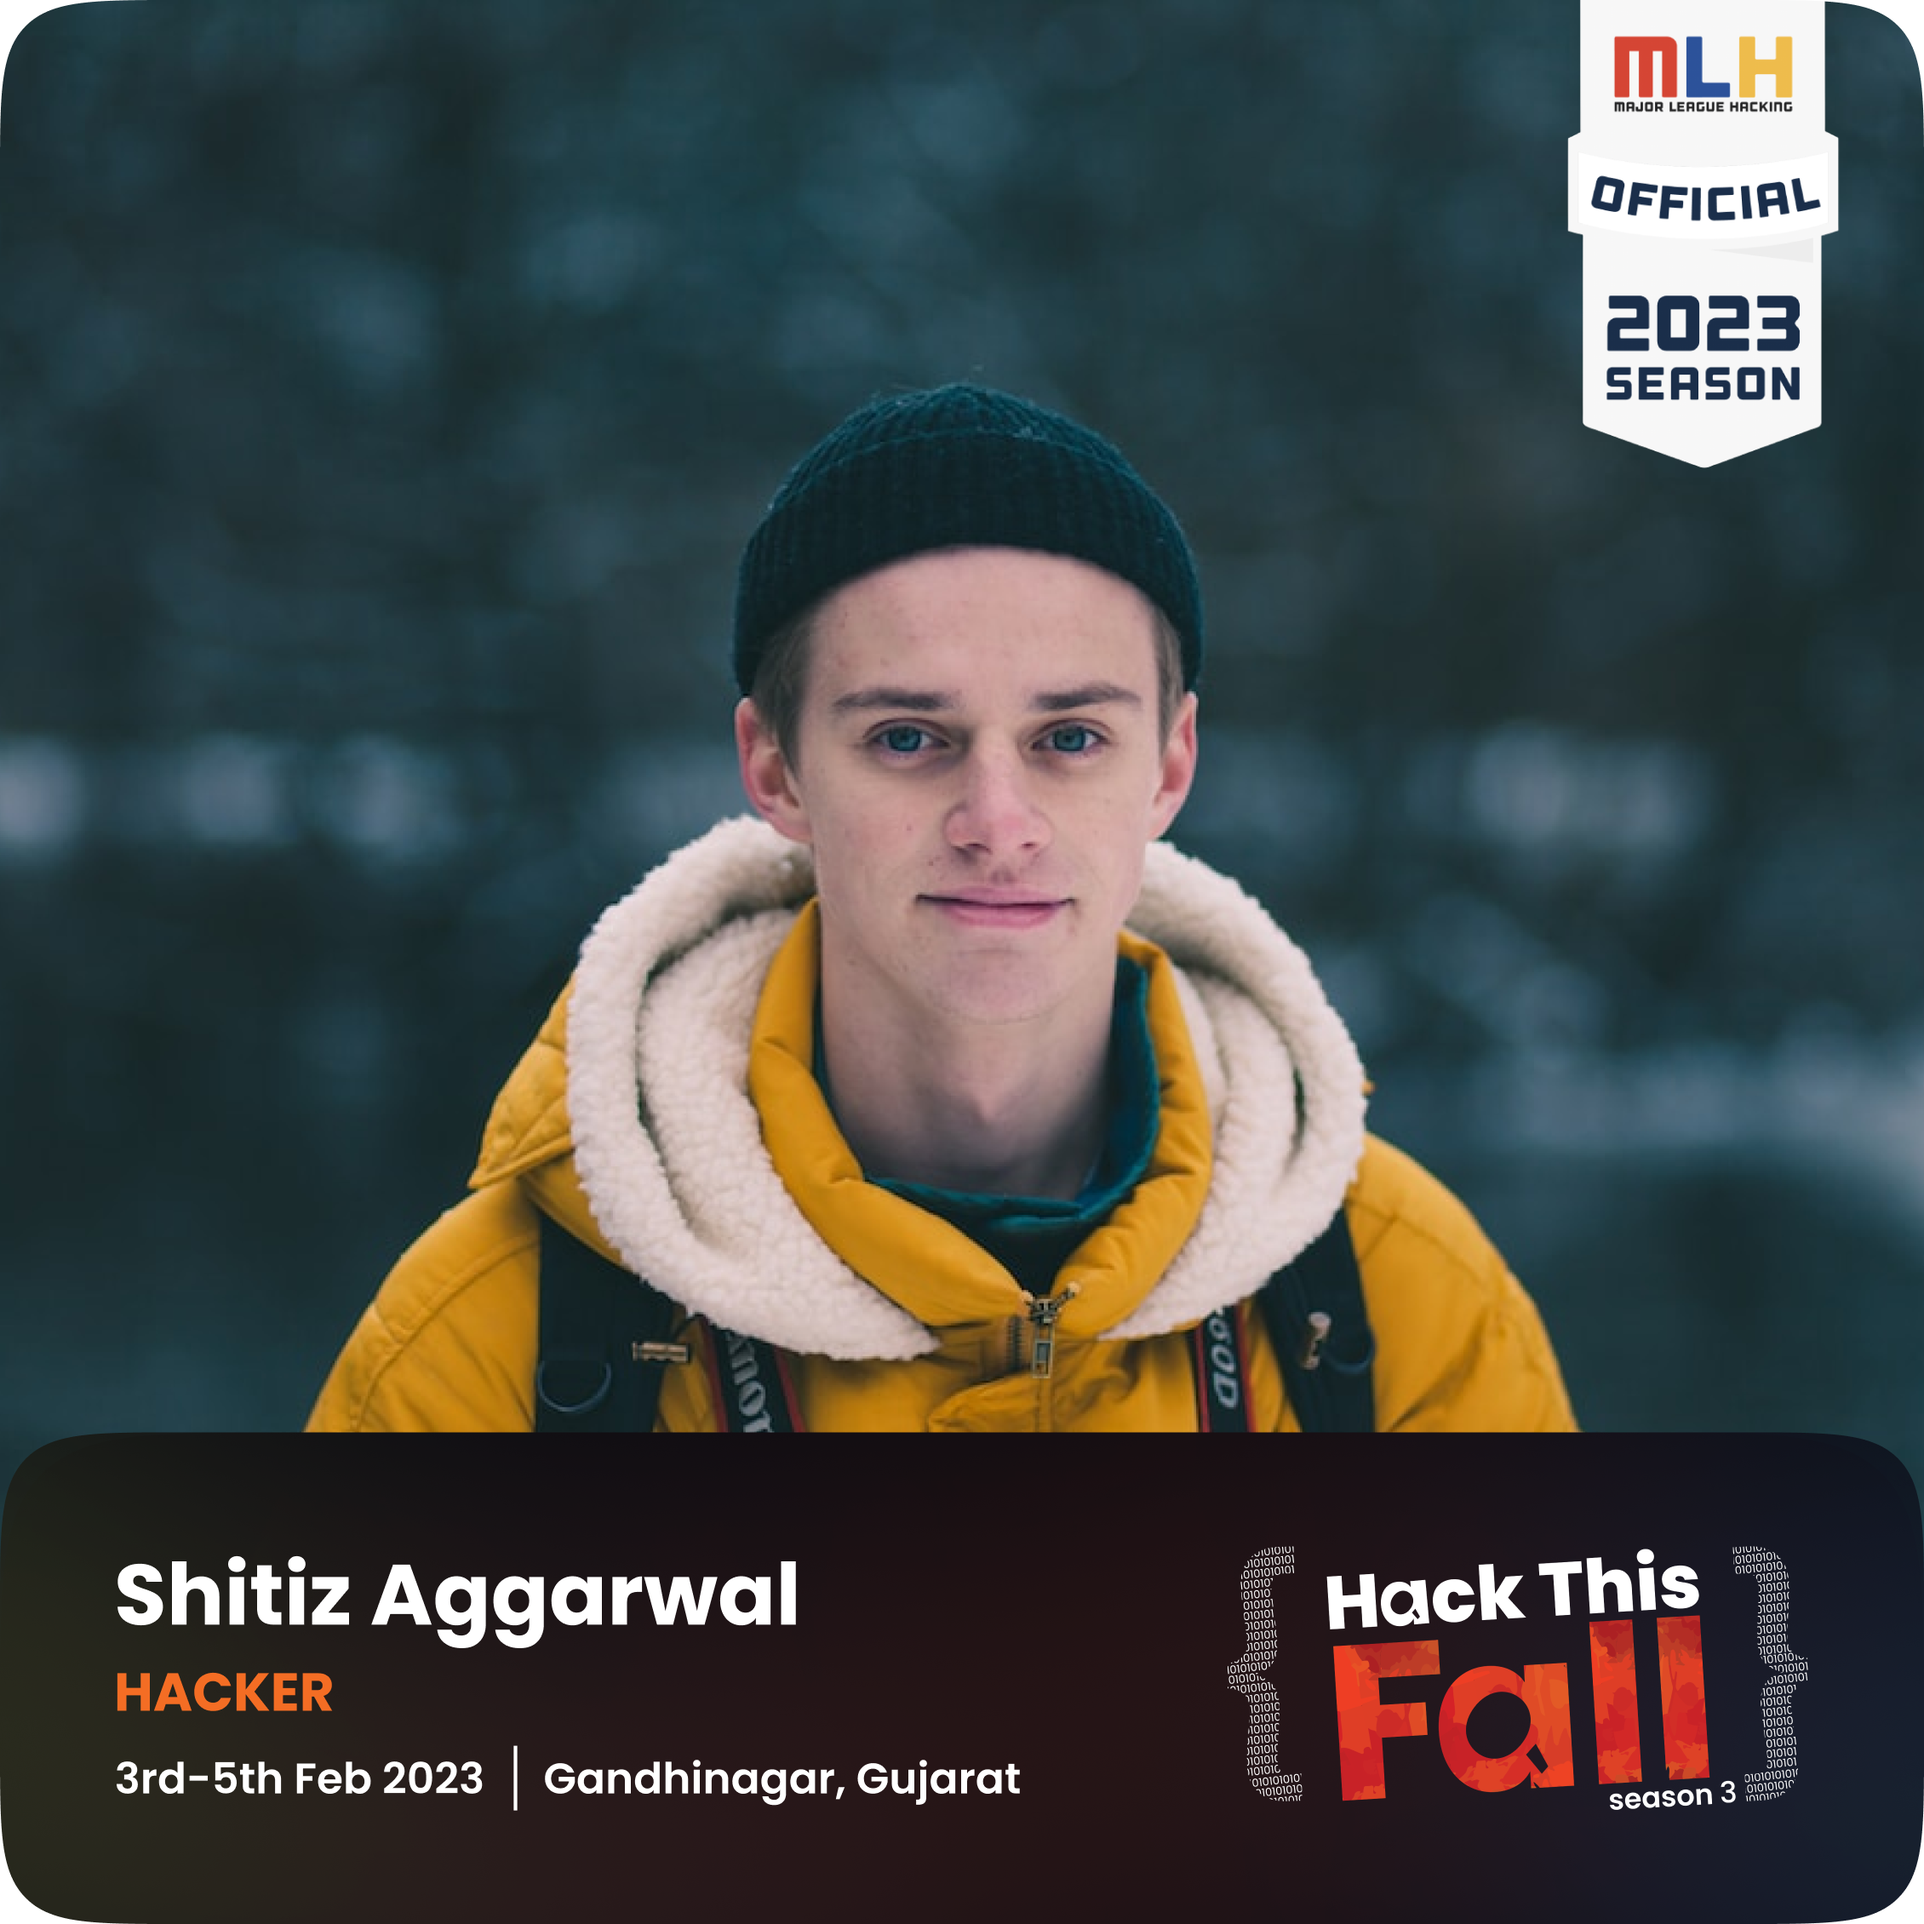
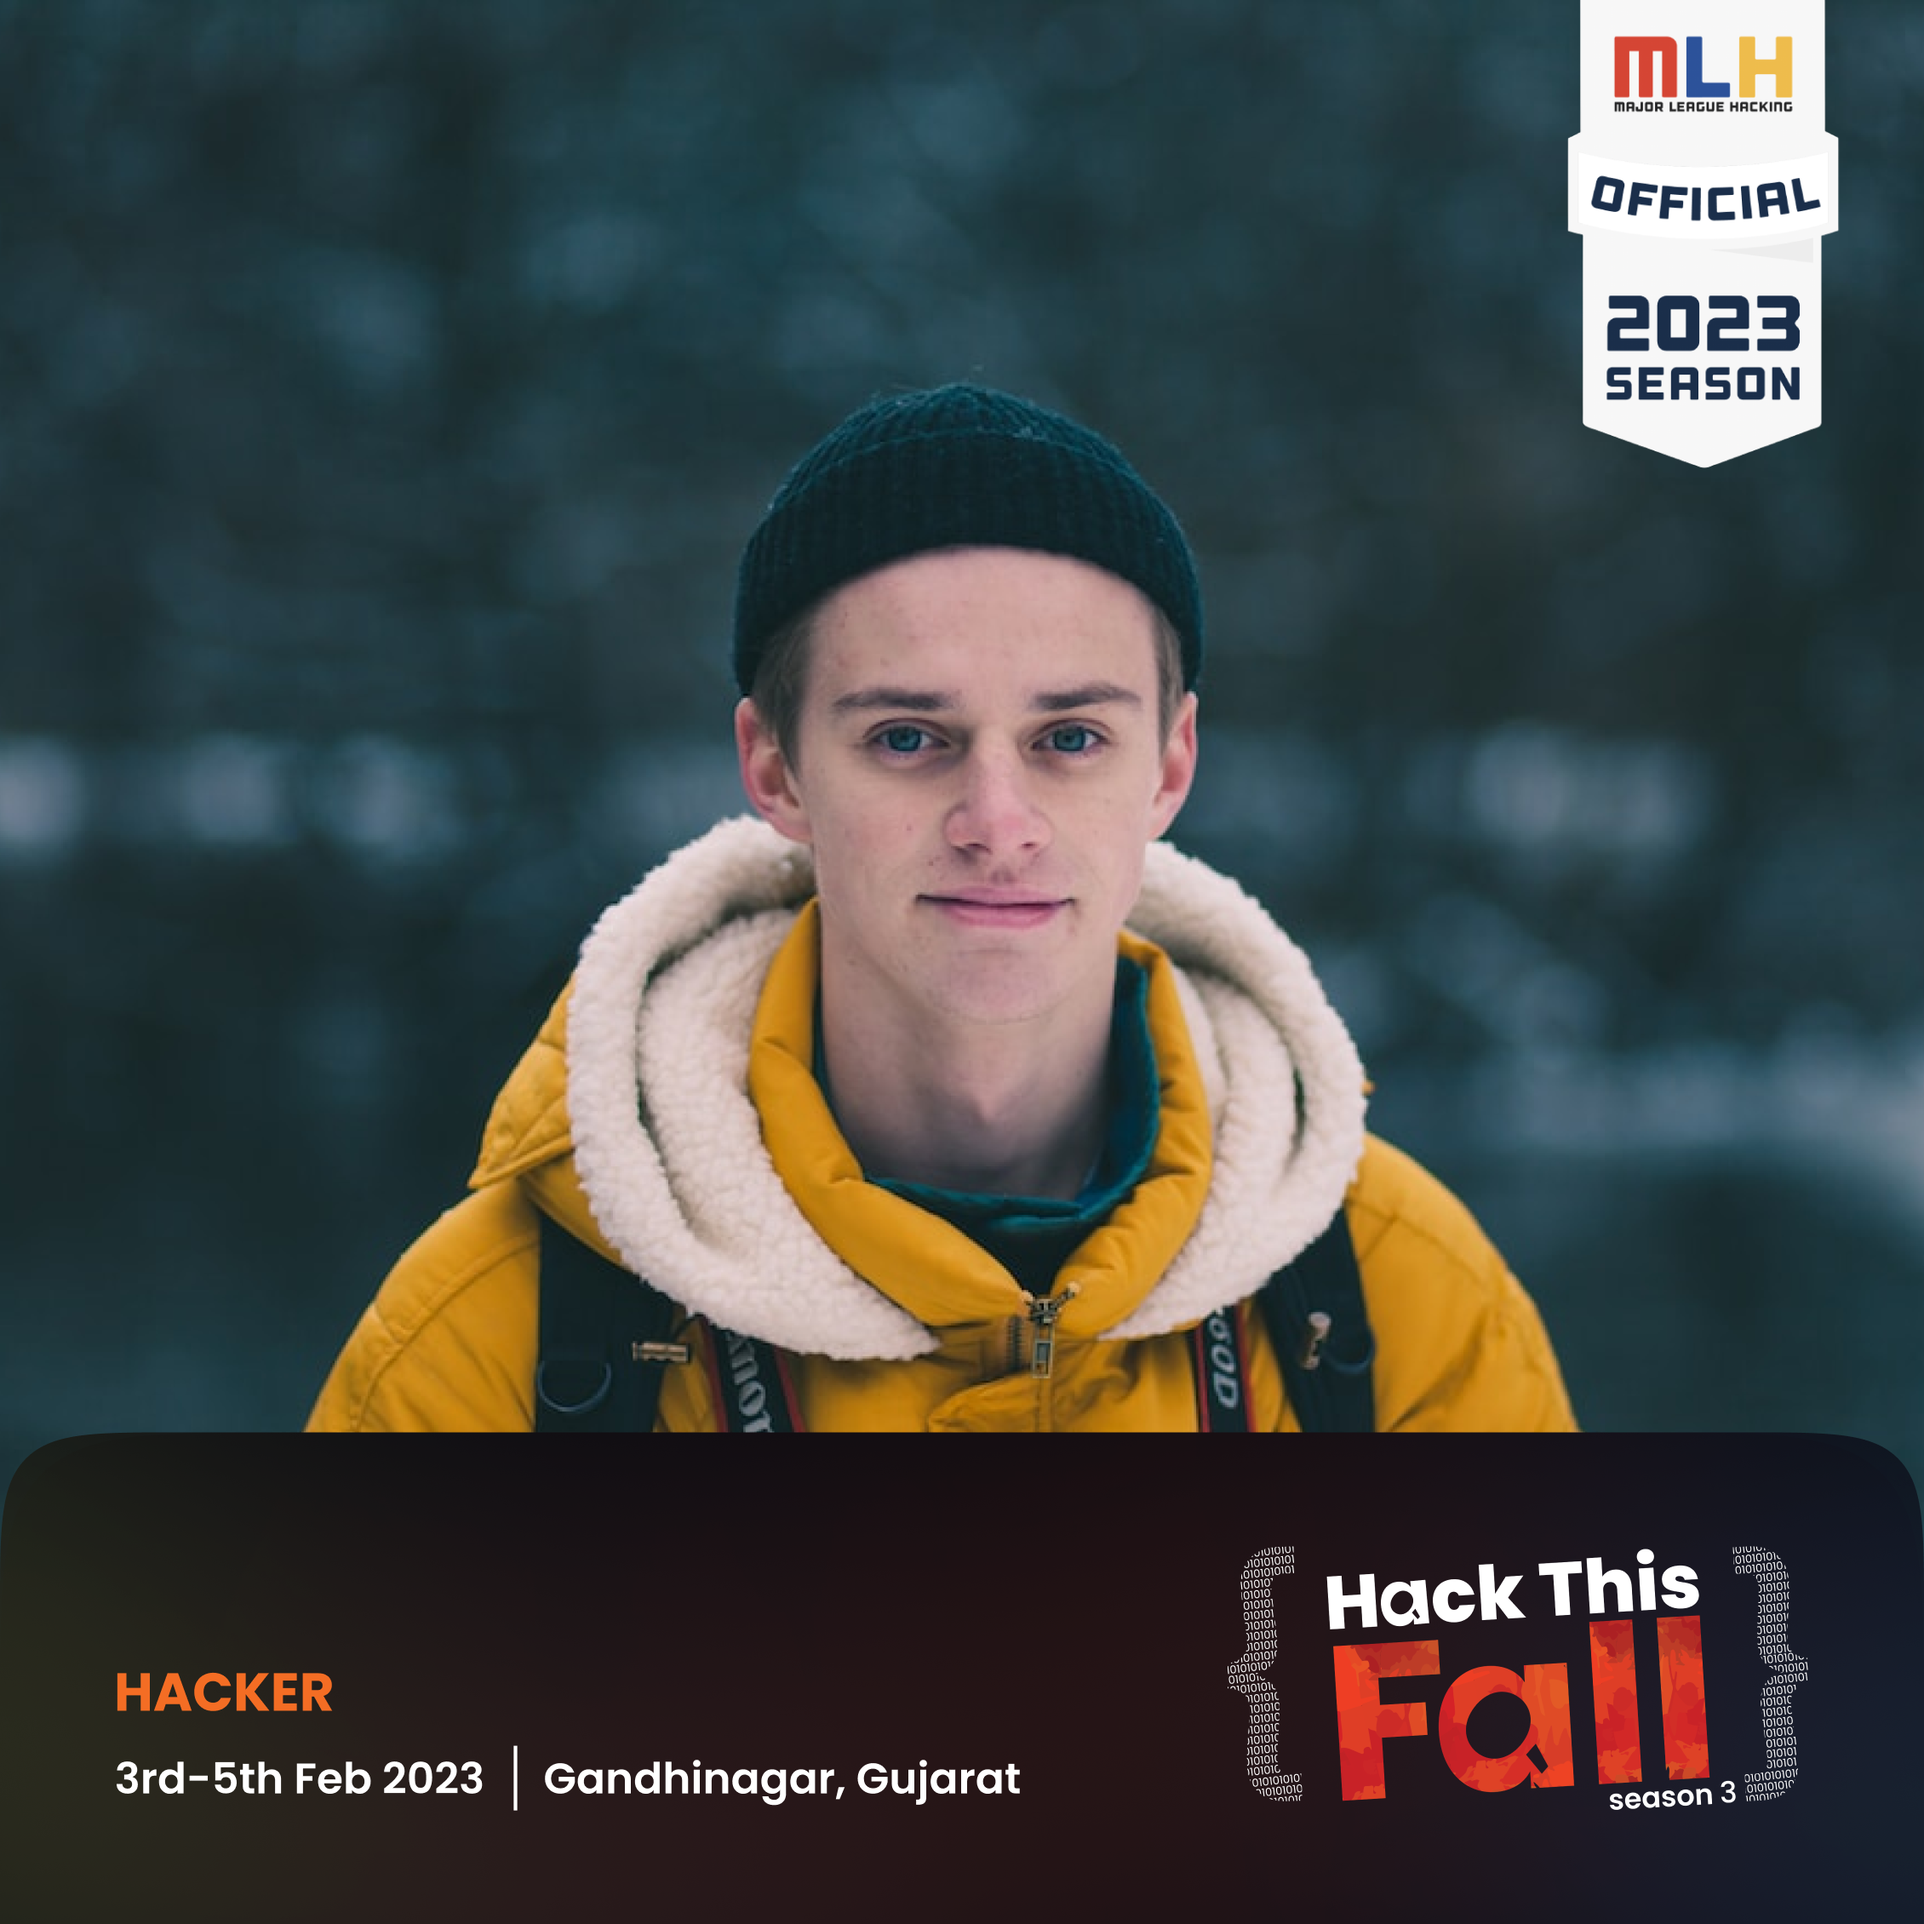
fix: badge name, navbar in swag

diff --git a/pages/swag.vue b/pages/swag.vue
@@ -5,12 +5,12 @@
       <div class="main-container">
         <div v-if="isNavbarOpen" class="navbar-mobile">
           <CFlex direction="column" align="center">
-            <span
+            <!-- <span
               id="nav-link-about"
               class="mobile-nav-item"
               @click="goToLocation('/swag#challenges')"
               >Challenges</span
-            >
+            > -->
             <span
               id="nav-link-about"
               class="mobile-nav-item"

diff --git a/components/NavigationBarForSwag.vue b/components/NavigationBarForSwag.vue
@@ -12,9 +12,9 @@
       <NuxtLink to="/"><img src="~/assets/logo.png" /></NuxtLink>
     </div>
     <div class="nav-desktop">
-      <NuxtLink id="nav-link-about" to="/swag#challenges" class="item"
+      <!-- <NuxtLink id="nav-link-about" to="/swag#challenges" class="item"
         >Challenges</NuxtLink
-      >
+      > -->
       <NuxtLink id="nav-link-tracks" to="/swag#badge" class="item"
         >Digital Badge</NuxtLink
       >

diff --git a/components/DigitalSwagSection.vue b/components/DigitalSwagSection.vue
@@ -177,6 +177,11 @@ export default {
       ctx.drawImage(defaultBadge, 0, 0, 1620, 1620)
       ctx.font = '700 4.5rem Poppins'
       ctx.fillStyle = 'white'
+      ctx.fillText(
+        this.name.trim() !== '' ? this.name : 'Your Name Here',
+        96,
+        1367
+      )
     }
 
     const badge = new Image()
